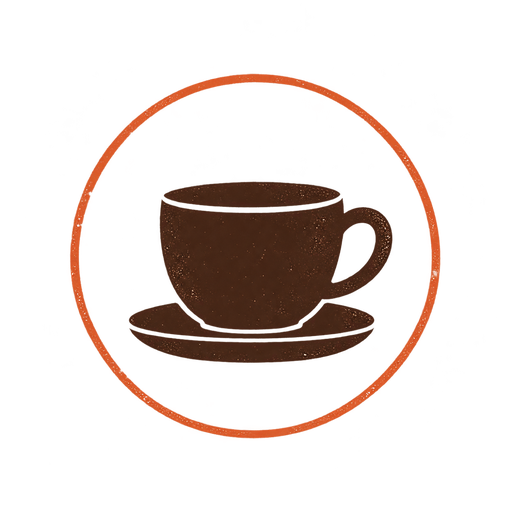
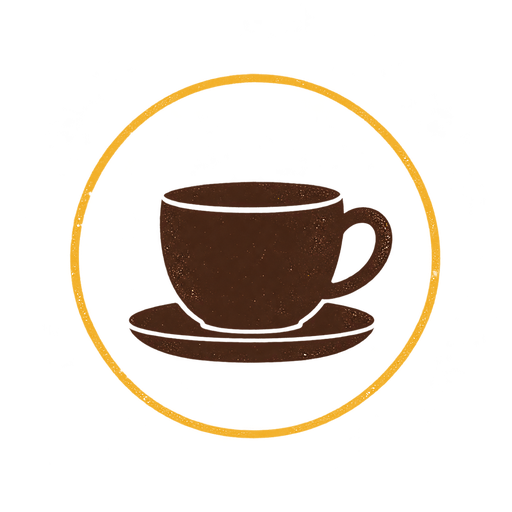
fix(brand): finish the YELO rebrand and fix its contrast
Muted text #817668 measured 3.6-4.4:1 on the app's cream and white
backgrounds, below the 4.5:1 text minimum; #6B5E55 measures 5.1-6.3:1.
The token and the 54 hard-coded uses move together.

Remove the four places that special-cased a shop named "YELO COFFEE":
BrandLogo already falls back to the mascot, and receipts go back to
printing only a logo the shop uploaded. Recolour the remaining old
orange accents (filled stamp ring, category-rail marker, add-on ticks,
scan line) to amber and align the fifth chart colour with --chart-5.

The vertical category rail was 116px wide with a 1px border and 96px
buttons, so it overflowed by 1px and showed a horizontal scrollbar.
Brand PNGs are downscaled to the largest size they are displayed at.

Changed region(s): [[0.125, 0.125, 0.875, 0.75], [0.25, 0.6562, 0.8125, 0.875]]

diff --git a/frontend/src/app/pos/orders/orders-screen.tsx b/frontend/src/app/pos/orders/orders-screen.tsx
@@ -250,7 +250,7 @@ export function OrdersScreen({ orders, initialDetail, netSalesSatang, todaySumma
             <span className="w-[72px] shrink-0 text-[22px] font-bold">{orderLabel(order.dailyNo)}</span>
             <span className="min-w-0 flex-1 leading-snug">
               <span className="text-base font-semibold">{orderTimestamp(order.paidAt)} · {order.itemCount} รายการ</span><br />
-              <span className="text-sm text-[#817668]">{methodLabel(order.paymentMethod)} · {order.memberName ?? "ไม่ใช่สมาชิก"}</span>
+              <span className="text-sm text-[#6B5E55]">{methodLabel(order.paymentMethod)} · {order.memberName ?? "ไม่ใช่สมาชิก"}</span>
             </span>
             <span className="text-right leading-snug">
               <span className="relative inline-block whitespace-nowrap text-lg font-bold tabular-nums">{formatBaht(order.totalSatang)}{order.status === "void" ? <svg data-list-total aria-hidden="true" className="pointer-events-none absolute inset-x-0 top-1/2 h-2 w-full -translate-y-1/2" viewBox="0 0 100 8" preserveAspectRatio="none"><path d="M2 4H98" fill="none" stroke="#F4B942" strokeWidth="2.5" strokeLinecap="round" /></svg> : null}</span><br />
@@ -260,7 +260,7 @@ export function OrdersScreen({ orders, initialDetail, netSalesSatang, todaySumma
         }) : <div className="flex flex-1 flex-col items-center justify-center gap-3 p-8 text-center">
           <Image src="/assets/empty-orders.png" alt="" width={128} height={128} className="size-32 object-contain" />
           <p className="m-0 text-xl font-semibold">วันนี้ยังไม่มีออเดอร์</p>
-          <p className="m-0 text-[#817668]">รายการขายจะแสดงที่นี่</p>
+          <p className="m-0 text-[#6B5E55]">รายการขายจะแสดงที่นี่</p>
         </div>}
       </section>
 
@@ -269,23 +269,23 @@ export function OrdersScreen({ orders, initialDetail, netSalesSatang, todaySumma
         {detail && detail.id === selectedId && !loadingDetail ? <>
           <div className="flex flex-wrap items-baseline gap-x-3.5 gap-y-2">
             <span className="text-[40px] font-bold">{orderLabel(detail.dailyNo)}</span>
-            <span className="text-base text-[#817668]">{orderTimestamp(detail.paidAt ?? detail.voidedAt)} · โดย {detail.staffName ?? "—"}</span>
+            <span className="text-base text-[#6B5E55]">{orderTimestamp(detail.paidAt ?? detail.voidedAt)} · โดย {detail.staffName ?? "—"}</span>
             <span data-void-status className={`ml-auto rounded-full px-3 py-1 text-sm font-semibold ${statusClass(detail.status)}`}>{detail.status === "void" ? "ยกเลิกแล้ว" : "ชำระแล้ว"}</span>
           </div>
-          {loadingDetail ? <p className="text-[#817668]">กำลังโหลดรายละเอียด…</p> : <>
+          {loadingDetail ? <p className="text-[#6B5E55]">กำลังโหลดรายละเอียด…</p> : <>
             <div className="flex flex-col border-t border-[#E2D8C7]">
               {detail.items.map((item) => <div key={item.id} className="flex gap-3 border-b border-[#EFE3D5] py-3 text-[17px]">
                 <span className="w-10 shrink-0 font-bold">{item.qty}×</span>
                 <span className="min-w-0 flex-1">{item.name}
-                  {item.modifiers.length || item.note ? <span className="block text-sm text-[#817668]">{[...item.modifiers.map((modifier) => modifier.name), item.note].filter(Boolean).join(" · ")}</span> : null}
+                  {item.modifiers.length || item.note ? <span className="block text-sm text-[#6B5E55]">{[...item.modifiers.map((modifier) => modifier.name), item.note].filter(Boolean).join(" · ")}</span> : null}
                 </span>
                 <span className="shrink-0 font-semibold tabular-nums">{formatBaht(item.unitPriceSatang * item.qty)}</span>
               </div>)}
             </div>
-            <div className="flex justify-between text-base text-[#817668]"><span>ชำระด้วย</span><span>{methodLabel(detail.paymentMethod)}</span></div>
-            <div className="flex justify-between text-base text-[#817668]"><span>สมาชิก</span><span>{detail.memberName ?? "ไม่ใช่สมาชิก"}</span></div>
-            {detail.discountSatang > 0 ? <div className="flex justify-between text-base text-[#817668]"><span>ส่วนลด</span><span>-{formatBaht(detail.discountSatang)}</span></div> : null}
-            {detail.paymentMethod === "cash" && detail.cashReceivedSatang !== null ? <div className="flex justify-between text-sm text-[#817668]"><span>รับเงินสด · เงินทอน</span><span className="tabular-nums">{formatBaht(detail.cashReceivedSatang)} · {formatBaht(detail.cashReceivedSatang - detail.totalSatang)}</span></div> : null}
+            <div className="flex justify-between text-base text-[#6B5E55]"><span>ชำระด้วย</span><span>{methodLabel(detail.paymentMethod)}</span></div>
+            <div className="flex justify-between text-base text-[#6B5E55]"><span>สมาชิก</span><span>{detail.memberName ?? "ไม่ใช่สมาชิก"}</span></div>
+            {detail.discountSatang > 0 ? <div className="flex justify-between text-base text-[#6B5E55]"><span>ส่วนลด</span><span>-{formatBaht(detail.discountSatang)}</span></div> : null}
+            {detail.paymentMethod === "cash" && detail.cashReceivedSatang !== null ? <div className="flex justify-between text-sm text-[#6B5E55]"><span>รับเงินสด · เงินทอน</span><span className="tabular-nums">{formatBaht(detail.cashReceivedSatang)} · {formatBaht(detail.cashReceivedSatang - detail.totalSatang)}</span></div> : null}
             <div className="flex items-baseline justify-between"><span className="text-lg font-semibold">ยอดรวม</span><span className="relative inline-block text-[34px] font-bold tabular-nums">{formatBaht(detail.totalSatang)}{detail.status === "void" ? <svg data-void-total aria-hidden="true" className="pointer-events-none absolute inset-x-0 top-1/2 h-2 w-full -translate-y-1/2" viewBox="0 0 100 8" preserveAspectRatio="none"><path d="M2 4H98" fill="none" stroke="#F4B942" strokeWidth="2.5" strokeLinecap="round" /></svg> : null}</span></div>
           </>}
           <div className="mt-auto flex gap-3 pt-2 max-[520px]:flex-col">
@@ -295,7 +295,7 @@ export function OrdersScreen({ orders, initialDetail, netSalesSatang, todaySumma
             {detail.status === "paid" ? <Link href={`/pos/refunds/${detail.id}`} className="flex min-h-12 items-center justify-center rounded-xl border px-4 font-semibold">คืนเงิน / ยกเลิกรายการที่ชำระแล้ว</Link> : null}
             {detail.status === "open" ? <button type="button" onClick={openVoid} className="h-[68px] flex-1 rounded-2xl border-2 border-[#8E3415] bg-[#FFFFFF] text-lg font-bold text-[#8E3415]">ยกเลิกบิลนี้</button> : null}
           </div>
-        </> : orders.length ? <p className="m-auto text-center text-[#817668]">{loadingDetail ? "กำลังโหลดรายละเอียด…" : "เลือกออเดอร์เพื่อดูรายละเอียด"}</p> : <div className="m-auto text-center text-[#817668]">ยังไม่มีรายละเอียดออเดอร์</div>}
+        </> : orders.length ? <p className="m-auto text-center text-[#6B5E55]">{loadingDetail ? "กำลังโหลดรายละเอียด…" : "เลือกออเดอร์เพื่อดูรายละเอียด"}</p> : <div className="m-auto text-center text-[#6B5E55]">ยังไม่มีรายละเอียดออเดอร์</div>}
       </section>
     </div> : <TodaySummary summary={todaySummary} hourlySales={hourlySales} topItems={topItems} currentHour={currentHour} />}
 
@@ -303,7 +303,7 @@ export function OrdersScreen({ orders, initialDetail, netSalesSatang, todaySumma
       <div ref={dialogRef} role="dialog" aria-modal="true" aria-labelledby={voidTitleId} tabIndex={-1} onKeyDown={trapDialogTab}
         className="flex w-full max-w-[520px] flex-col items-center gap-4 rounded-3xl bg-[#FFFFFF] p-7 outline-none">
         <h2 id={voidTitleId} className="m-0 text-center text-2xl font-bold">ยกเลิกบิล {orderLabel(detail.dailyNo)} ({formatBaht(detail.totalSatang)})</h2>
-        <p className="m-0 text-center text-base text-[#817668]">ต้องใช้ PIN ผู้จัดการหรือเจ้าของร้าน · ยกเลิกได้เฉพาะบิลที่ยังไม่ชำระเงิน</p>
+        <p className="m-0 text-center text-base text-[#6B5E55]">ต้องใช้ PIN ผู้จัดการหรือเจ้าของร้าน · ยกเลิกได้เฉพาะบิลที่ยังไม่ชำระเงิน</p>
         <div ref={pinDotsRef} role="img" aria-label={`PIN ที่ใส่แล้ว ${pin.length} หลัก`} className="flex gap-3 py-1">
           {Array.from({ length: 6 }, (_, index) => index + 1).map((pinPosition) => <span key={pinPosition} data-pin-index={pinPosition - 1} className={`size-[22px] rounded-full border-2 border-[#4A2C1A] ${pinPosition <= pin.length ? "bg-[#4A2C1A]" : "bg-transparent"}`} />)}
         </div>

diff --git a/frontend/src/app/pos/login/login-form.tsx b/frontend/src/app/pos/login/login-form.tsx
@@ -3,7 +3,6 @@
 import { useRef, useState } from "react";
 import { useActionState } from "react";
 import { useFormStatus } from "react-dom";
-import Image from "next/image";
 import { useRouter } from "next/navigation";
 import { Button } from "@/components/ui/button";
 import { BrandLogo } from "@/components/brand/brand";
@@ -101,12 +100,10 @@ export function LoginForm({ staff, shopName, deviceName, logoUrl }: { staff: Sta
   return <main ref={mainRef} className="flex min-h-dvh w-full overflow-hidden bg-[#F7F1E7] text-[#4A2C1A] max-[800px]:flex-col">
     <section className="flex min-w-0 flex-1 flex-col gap-7 overflow-y-auto px-10 py-10 lg:px-14">
       <div className="flex items-center gap-4">
-        {shopName === "YELO COFFEE" && !logoUrl?.startsWith("/api/brand/")
-          ? <Image src="/assets/yelo-coffee-logo.png" alt="YELO COFFEE" width={288} height={192} className="h-16 w-36 object-contain" />
-          : <BrandLogo logoUrl={logoUrl} size={64} className="rounded-2xl" />}
+        <BrandLogo logoUrl={logoUrl} size={64} className="rounded-2xl" />
         <div className="leading-tight">
-          {shopName !== "YELO COFFEE" && <div className="text-[28px] font-bold">{shopName}</div>}
-          <div className="mt-1 text-base text-[#817668]">{deviceName} · จับคู่แล้ว</div>
+          <div className="text-[28px] font-bold">{shopName}</div>
+          <div className="mt-1 text-base text-[#6B5E55]">{deviceName} · จับคู่แล้ว</div>
         </div>
       </div>
       <h1 className="m-0 text-[32px] font-bold">ใครเข้ากะตอนนี้?</h1>
@@ -121,11 +118,11 @@ export function LoginForm({ staff, shopName, deviceName, logoUrl }: { staff: Sta
             </svg> : null}
             <span className={`flex size-16 items-center justify-center rounded-full text-[26px] font-bold ${isSelected ? "bg-[#4A2C1A] text-[#F7F1E7]" : "bg-[#F7F1E7] text-[#4A2C1A]"}`}>{thaiInitial(person.name)}</span>
             <span className="max-w-full truncate text-xl font-bold leading-tight">{person.name}</span>
-            <span className="text-sm text-[#817668]">{roleNames[person.role] ?? person.role}</span>
+            <span className="text-sm text-[#6B5E55]">{roleNames[person.role] ?? person.role}</span>
           </button>;
         })}
       </div>
-      {staff.length === 0 ? <div className="rounded-2xl border border-[#E2D8C7] bg-[#FFFFFF] p-6 text-center text-[#817668]">
+      {staff.length === 0 ? <div className="rounded-2xl border border-[#E2D8C7] bg-[#FFFFFF] p-6 text-center text-[#6B5E55]">
         <p className="m-0 font-semibold text-[#4A2C1A]">ยังไม่มีพนักงานที่ตั้ง PIN และเปิดใช้งาน</p>
         <p className="mb-0 mt-2">ให้เจ้าของร้านตั้ง PIN ที่หลังร้าน › พนักงาน</p>
       </div> : null}
@@ -133,7 +130,7 @@ export function LoginForm({ staff, shopName, deviceName, logoUrl }: { staff: Sta
 
     <aside className="flex w-[min(460px,42vw)] shrink-0 flex-col items-center gap-[22px] border-l border-[#E2D8C7] bg-[#FFFFFF] px-10 py-10 max-[800px]:w-full max-[800px]:border-l-0 max-[800px]:border-t">
       {selected ? <div ref={panelRef} className="flex w-full flex-col items-center gap-[22px]">
-        <div className="text-lg text-[#817668]">ใส่ PIN ของ</div>
+        <div className="text-lg text-[#6B5E55]">ใส่ PIN ของ</div>
         <div className="-mt-3 text-[28px] font-bold">{selected.name}</div>
         <div ref={pinDotsRef} role="img" aria-label={`PIN ที่ใส่แล้ว ${pin.length} หลัก`} className="flex h-7 items-center gap-3">
           {Array.from({ length: 6 }, (_, index) => index + 1).map((pinPosition) => <span key={pinPosition} data-pin-index={pinPosition - 1} className={`pin-dot size-[22px] rounded-full border-2 ${state.success ? "border-[#2F6B3F] bg-[#2F6B3F]" : `border-[#4A2C1A] ${pinPosition <= pin.length ? "bg-[#4A2C1A]" : "bg-transparent"}`}`} />)}
@@ -145,10 +142,10 @@ export function LoginForm({ staff, shopName, deviceName, logoUrl }: { staff: Sta
           <Keypad value={pin} onChange={updatePin} maxLength={6} keyClassName="h-[72px] rounded-[18px] text-[30px]" className="gap-3" />
           <LoginButton disabled={pin.length < 4 || Boolean(state.success)} />
         </form>
-      </div> : staff.length === 0 ? <div className="flex flex-1 flex-col items-center justify-center gap-3 text-center text-[#817668]">
+      </div> : staff.length === 0 ? <div className="flex flex-1 flex-col items-center justify-center gap-3 text-center text-[#6B5E55]">
         <span className="text-xl font-semibold text-[#4A2C1A]">ยังไม่มีพนักงานที่ตั้ง PIN และเปิดใช้งาน</span>
         <span className="text-base">ให้เจ้าของร้านตั้ง PIN ที่หลังร้าน › พนักงาน</span>
-      </div> : <div className="flex flex-1 flex-col items-center justify-center gap-3 text-center text-[#817668]">
+      </div> : <div className="flex flex-1 flex-col items-center justify-center gap-3 text-center text-[#6B5E55]">
         <svg aria-hidden="true" width="56" height="56" viewBox="0 0 24 24" fill="none" stroke="#B88A5A" strokeWidth="1.6" strokeLinecap="round" strokeLinejoin="round"><rect x="4" y="10" width="16" height="11" rx="2" /><path d="M8 10V7a4 4 0 0 1 8 0v3" /></svg>
         <span className="text-xl font-semibold text-[#4A2C1A]">เลือกชื่อของคุณ</span>
         <span className="text-base">แล้วใส่ PIN 4–6 หลักเพื่อเริ่มขาย</span>

diff --git a/frontend/src/app/pos/_components/cart-panel.tsx b/frontend/src/app/pos/_components/cart-panel.tsx
@@ -76,7 +76,7 @@ export function CartPanel({ lines, pricedLines, subtotalSatang, discountSatang, 
   return <aside ref={panelRef} data-cart-panel aria-label="ออเดอร์ปัจจุบัน" className="flex w-full min-w-0 overflow-y-auto lg:w-[min(404px,34vw)] lg:min-w-[320px] shrink-0 flex-col border-l border-[#E2D8C7] bg-[#FFFFFF] shadow-[-8px_0_24px_rgba(59,42,32,0.035)]">
     <MemberPanel member={member} loading={memberLoading} lookupError={memberLookupError} redeemRewardId={redeemRewardId} onScan={onScan} onPhone={onPhone} onRemove={onRemoveMember} onToggleReward={onToggleReward} />
     <div className="min-h-32 flex-1 overflow-y-auto px-4 py-1.5">
-      {lines.length === 0 ? <div className="flex h-full flex-col items-center justify-center gap-2 text-center text-[#817668]">
+      {lines.length === 0 ? <div className="flex h-full flex-col items-center justify-center gap-2 text-center text-[#6B5E55]">
         <Coffee aria-hidden="true" size={44} className="text-[#B88A5A]" /><span className="text-[17px] font-semibold">ยังไม่มีรายการ</span><span className="text-sm">แตะเมนูทางซ้ายเพื่อเริ่มออเดอร์</span>
       </div> : lines.map((line, index) => {
         const priced = pricedLines[index];
@@ -85,7 +85,7 @@ export function CartPanel({ lines, pricedLines, subtotalSatang, discountSatang, 
         return <div key={lineKey} data-cart-line data-line-key={lineKey} className="flex gap-2.5 border-b border-[#EFE3D5] py-3">
           <button type="button" onClick={() => onEdit(index)} aria-label={`แก้ไข ${productNames.get(line.productId) ?? priced?.name}${modifiersText ? ` ${modifiersText}` : ""}`}
             className="min-h-11 min-w-0 flex-1 rounded-lg text-left focus-visible:outline-2 focus-visible:outline-[#F4B942]">
-            <div className="text-[17px] font-semibold">{productNames.get(line.productId) ?? priced?.name}</div>{soldOutIds.has(line.productId) ? <div className="text-sm font-semibold text-[#8E3415]">หมดแล้ว — กดปุ่มลดจำนวนเพื่อนำออก</div> : <div className="text-sm text-[#817668]">{modifiersText || "แตะเพื่อแก้ไขรายการ"}</div>}
+            <div className="text-[17px] font-semibold">{productNames.get(line.productId) ?? priced?.name}</div>{soldOutIds.has(line.productId) ? <div className="text-sm font-semibold text-[#8E3415]">หมดแล้ว — กดปุ่มลดจำนวนเพื่อนำออก</div> : <div className="text-sm text-[#6B5E55]">{modifiersText || "แตะเพื่อแก้ไขรายการ"}</div>}
             <div className="mt-1 text-[15px] font-bold tabular-nums">{formatBaht(priced?.lineTotalSatang ?? 0)}</div></button>
           <div className="flex items-center gap-1">
             <button type="button" aria-label={`ลดจำนวน ${productNames.get(line.productId)}`} onClick={() => { if (line.qty === 1) { removeLineWithMotionRef.current(index); } onQuantity(index, -1); }} className="flex size-11 items-center justify-center rounded-xl border border-[#E2D8C7] bg-[#FFFFFF] active:scale-[0.97] motion-reduce:transition-none"><Minus aria-hidden="true" size={20} /></button>
@@ -96,7 +96,7 @@ export function CartPanel({ lines, pricedLines, subtotalSatang, discountSatang, 
       })}
     </div>
     <footer className="flex shrink-0 flex-col gap-1.5 border-t border-[#E2D8C7] p-[14px_16px_16px]">
-      <div className="flex justify-between text-[15px] text-[#817668]"><span>รวม {itemCount} รายการ</span><span className="tabular-nums">{formatBaht(subtotalSatang)}</span></div>
+      <div className="flex justify-between text-[15px] text-[#6B5E55]"><span>รวม {itemCount} รายการ</span><span className="tabular-nums">{formatBaht(subtotalSatang)}</span></div>
       {discountSatang > 0 && <div className="flex justify-between text-[15px] font-semibold text-[#2F6B3F]"><span>ส่วนลดรางวัลสมาชิก</span><span className="tabular-nums">−{formatBaht(discountSatang)}</span></div>}
       <div className="mt-0.5 flex items-baseline justify-between"><span className="text-lg font-semibold">ยอดชำระ</span><span className="text-[32px] font-bold tabular-nums">{formatBaht(totalSatang)}</span></div>
       <button ref={payRef} type="button" disabled={!lines.length || !online || hasSoldOut} onClick={onPay} className="relative mt-1.5 h-[72px] overflow-hidden rounded-2xl bg-[#F4B942] text-[22px] font-bold text-[#2F2A25] shadow-[0_5px_12px_rgba(244,185,66,0.22)] transition-transform active:scale-[0.99] motion-reduce:transform-none motion-reduce:transition-none disabled:bg-[#D1C1A8]">

diff --git a/frontend/src/app/pos/_components/payment-dialog.tsx b/frontend/src/app/pos/_components/payment-dialog.tsx
@@ -256,12 +256,12 @@ export function PaymentDialog({ orderLabel, lines: cartLines, subtotalSatang: ca
       <div ref={dialogRef} tabIndex={-1} role="dialog" aria-modal="true" aria-busy={pending} aria-labelledby={`${id}-payment-title`} onKeyDown={trapDialogTab}
         className="flex max-h-[calc(100dvh-24px)] flex-col overflow-y-auto md:h-[min(680px,calc(100dvh-24px))] md:flex-row w-full max-w-[1000px] md:overflow-hidden rounded-[24px] border border-white/60 bg-[#FFFFFF] shadow-[0_24px_80px_rgba(43,30,22,0.25)] outline-none">
         <aside className="flex w-full shrink-0 md:w-[36%] md:min-w-[260px] flex-col gap-3 bg-gradient-to-b from-[#F7F0E7] to-[#F0E4D7] p-4 md:p-7">
-        <h2 id={`${id}-payment-title`} className="text-base text-[#817668]">ออเดอร์ {orderLabel}</h2>
+        <h2 id={`${id}-payment-title`} className="text-base text-[#6B5E55]">ออเดอร์ {orderLabel}</h2>
           <div className="max-h-32 space-y-3 overflow-y-auto md:max-h-none md:min-h-0">
             {lines.map((line) => (
               <div key={line.key} className="flex justify-between gap-2 text-base">
                 <div className="min-w-0"><div>{line.qty} × {line.name}</div>
-                  {line.modifiersText && <div className="text-sm text-[#817668]">{line.modifiersText}</div>}
+                  {line.modifiersText && <div className="text-sm text-[#6B5E55]">{line.modifiersText}</div>}
                 </div>
                 <span className="shrink-0 tabular-nums">{formatBaht(line.lineTotalSatang)}</span>
               </div>
@@ -271,7 +271,7 @@ export function PaymentDialog({ orderLabel, lines: cartLines, subtotalSatang: ca
             <span>รางวัลสมาชิก</span><span className="tabular-nums">−{formatBaht(discountSatang)}</span>
           </div>}
           <div className="mt-auto border-t border-[#E0CFBD] pt-3">
-            <div className="flex justify-between text-sm text-[#817668]"><span>รวม</span><span className="tabular-nums">{formatBaht(subtotalSatang)}</span></div>
+            <div className="flex justify-between text-sm text-[#6B5E55]"><span>รวม</span><span className="tabular-nums">{formatBaht(subtotalSatang)}</span></div>
             <div className="mt-1 text-lg font-semibold">ยอดชำระ</div>
             <div className="text-[clamp(40px,5vw,56px)] font-bold leading-[1.1] tabular-nums">{formatBaht(totalSatang)}</div>
           </div>
@@ -292,13 +292,13 @@ export function PaymentDialog({ orderLabel, lines: cartLines, subtotalSatang: ca
               onClick={() => void selectPromptPay()}
               className={`relative z-10 h-[60px] rounded-[14px] text-lg font-bold transition-colors disabled:cursor-not-allowed disabled:text-[#8A796B] ${isCash ? "text-[#4A2C1A]" : "text-[#F7F1E7]"}`}>พร้อมเพย์</button>
           </div>
-          {!promptpayEnabled && <p className="-mt-3 text-sm text-[#817668]">ยังไม่ได้ตั้งค่าพร้อมเพย์ในหลังร้าน</p>}
+          {!promptpayEnabled && <p className="-mt-3 text-sm text-[#6B5E55]">ยังไม่ได้ตั้งค่าพร้อมเพย์ในหลังร้าน</p>}
 
           <div ref={contentRef} className="flex shrink-0 flex-col">
             {isCash ? <div className="flex min-h-0 flex-1 flex-col gap-4 sm:flex-row">
               <div className="flex min-w-0 flex-1 flex-col gap-3">
                 <div className="rounded-2xl border border-[#E2D8C7] bg-white/60 px-4 py-2.5 shadow-[0_2px_8px_rgba(74,44,26,0.04)]">
-                  <div className="text-sm text-[#817668]">รับเงินมา</div>
+                  <div className="text-sm text-[#6B5E55]">รับเงินมา</div>
                   <input aria-label="จำนวนเงินที่รับ (บาท)" inputMode="decimal" value={cashInput} placeholder="0" className="w-full min-w-0 bg-transparent text-[40px] font-bold leading-tight tabular-nums" onChange={(event) => { const value = event.target.value; if (/^\d{0,6}(\.\d{0,2})?$/.test(value)) setCashInput(value); }} />
                 </div>
                 <div className={`rounded-2xl border px-4 py-2.5 transition-colors duration-200 ${changeShort ? "border-[#E9B29B] bg-[#F7DCD0] text-[#8E3415]" : "border-[#BDD3C0] bg-[#E7F1E8] text-[#245232]"}`}>

diff --git a/frontend/src/app/pos/_components/phone-dialog.tsx b/frontend/src/app/pos/_components/phone-dialog.tsx
@@ -56,17 +56,17 @@ export function PhoneDialog({ onClose, onAttach }: PhoneDialogProps) {
       className="relative flex flex-col sm:flex-row max-h-[calc(100dvh-32px)] w-[min(760px,calc(100vw-32px))] gap-6 overflow-y-auto rounded-3xl border border-[#E2D8C7] bg-[#FFFFFF] p-6 shadow-[0_24px_70px_rgba(43,30,22,0.22)] outline-none">
       <div className="flex min-w-0 flex-1 flex-col gap-3.5">
         <div className="flex min-h-11 items-center justify-between gap-2"><h2 id={`${id}-phone-title`} className="text-[22px] font-bold">ค้นหาด้วยเบอร์โทร</h2>
-          <button type="button" aria-label="ปิดหน้าต่าง" onClick={onClose} className="flex size-11 shrink-0 items-center justify-center rounded-xl text-[#817668] transition-colors hover:bg-[#EFE3D5]"><X aria-hidden="true" /></button>
+          <button type="button" aria-label="ปิดหน้าต่าง" onClick={onClose} className="flex size-11 shrink-0 items-center justify-center rounded-xl text-[#6B5E55] transition-colors hover:bg-[#EFE3D5]"><X aria-hidden="true" /></button>
         </div>
         <div aria-live="polite" className="flex h-[68px] items-center rounded-2xl border-2 border-[#4A2C1A] px-[18px] text-[30px] font-bold tracking-wide">{display}</div>
         <div ref={resultsRef} className="flex min-h-0 flex-1 flex-col gap-2 overflow-y-auto">
-          {phone.length < 4 && <p className="text-[15px] text-[#817668]">พิมพ์อย่างน้อย 4 หลักเพื่อค้นหา</p>}
-          {loading && <p className="flex items-center gap-2 text-[#817668]"><Search aria-hidden="true" size={18} />กำลังค้นหา…</p>}
-          {hasCurrentResult && !searchResult.error && members.length === 0 && <p className="text-[15px] text-[#817668]">ไม่พบสมาชิก</p>}
+          {phone.length < 4 && <p className="text-[15px] text-[#6B5E55]">พิมพ์อย่างน้อย 4 หลักเพื่อค้นหา</p>}
+          {loading && <p className="flex items-center gap-2 text-[#6B5E55]"><Search aria-hidden="true" size={18} />กำลังค้นหา…</p>}
+          {hasCurrentResult && !searchResult.error && members.length === 0 && <p className="text-[15px] text-[#6B5E55]">ไม่พบสมาชิก</p>}
           {hasCurrentResult && searchResult.error && <div role="alert">ค้นหาไม่สำเร็จ กรุณาลองใหม่ <button type="button" className="min-h-11 underline" onClick={() => setRetry((value) => value + 1)}>ลองใหม่</button></div>}
           {members.map((member) => <button data-member-result key={member.id} type="button" onClick={() => { onAttach(member); onClose(); }} className="flex min-h-[72px] items-center gap-3 rounded-2xl border border-[#B88A5A] bg-[#F7F1E7] p-3 text-left shadow-[0_3px_10px_rgba(59,42,32,0.05)] transition-colors hover:bg-[#EFE3D5]">
             <span className="flex size-11 shrink-0 items-center justify-center rounded-full bg-[#06C755] font-bold text-white">{thaiInitial(member.displayName)}</span>
-            <span className="min-w-0 flex-1 leading-tight"><b className="text-[17px]">{member.displayName}</b><br /><span className="text-sm text-[#817668]">{maskPhone(member.phone) || "ไม่ระบุเบอร์"} · สะสม {member.stampBalance}/{member.stampGoal} · มีรางวัล {member.availableRewards.length}</span></span>
+            <span className="min-w-0 flex-1 leading-tight"><b className="text-[17px]">{member.displayName}</b><br /><span className="text-sm text-[#6B5E55]">{maskPhone(member.phone) || "ไม่ระบุเบอร์"} · สะสม {member.stampBalance}/{member.stampGoal} · มีรางวัล {member.availableRewards.length}</span></span>
             <span className="shrink-0 text-[15px] font-bold text-[#6B4226]">เลือก</span>
           </button>)}
         </div>

diff --git a/frontend/src/app/pos/_components/modifier-sheet.tsx b/frontend/src/app/pos/_components/modifier-sheet.tsx
@@ -78,7 +78,7 @@ export function ModifierSheet({ product, initialModifierIds = [], initialQty = 1
           <ProductTile name={product.name} tileColor={product.tileColor} className="hidden md:block size-[232px] rounded-2xl text-[80px]" />}
         <h2 id={`${id}-modifier-title`} className="text-[26px] font-bold">{product.name}</h2>
         {isEditing && <p className="-mt-2 text-sm font-medium text-[#8A6A4F]">แก้ไขรายการในออเดอร์</p>}
-        <p className="text-[17px] text-[#817668]">ราคาเริ่มต้น {formatBaht(product.basePriceSatang)}</p>
+        <p className="text-[17px] text-[#6B5E55]">ราคาเริ่มต้น {formatBaht(product.basePriceSatang)}</p>
         <div className="mt-auto flex flex-col gap-2">
           <span className="text-[15px] font-semibold">จำนวน</span>
           <div className="flex items-center gap-2">
@@ -96,7 +96,7 @@ export function ModifierSheet({ product, initialModifierIds = [], initialQty = 1
             const rule = group.minSelect > 0 ? `ต้องเลือก ${group.minSelect}` : group.maxSelect === 1 ? "ไม่บังคับ" : `เลือกได้สูงสุด ${group.maxSelect}`;
             return <section key={group.id} className="flex flex-col gap-2.5">
               <div className="flex items-center gap-2.5"><h3 className="text-[19px] font-bold">{group.name}</h3>
-                <span data-required-badge data-missing={missing} className={`rounded-full px-2.5 py-1 text-[13px] font-semibold ${missing ? "bg-[#F7DCD0] text-[#8E3415]" : "bg-[#EFE3D5] text-[#817668]"}`}>{rule}</span>
+                <span data-required-badge data-missing={missing} className={`rounded-full px-2.5 py-1 text-[13px] font-semibold ${missing ? "bg-[#F7DCD0] text-[#8E3415]" : "bg-[#EFE3D5] text-[#6B5E55]"}`}>{rule}</span>
               </div>
               {group.modifiers.length < group.minSelect && <p role="alert" className="text-sm text-[#6B4226]">ตัวเลือกไม่ครบ สินค้านี้ยังไม่พร้อมขาย กรุณาให้ผู้จัดการตั้งค่าตัวเลือกในหลังร้าน</p>}
               <div className="grid grid-cols-2 gap-2.5 min-[700px]:grid-cols-4">
@@ -104,7 +104,7 @@ export function ModifierSheet({ product, initialModifierIds = [], initialQty = 1
                   const isSelected = chosen.has(modifier.id);
                   return <button key={modifier.id} type="button" aria-pressed={isSelected} onClick={() => toggle(group.id, modifier.id, group.maxSelect)}
                     className={`relative flex h-16 flex-col items-center justify-center rounded-[14px] border text-[17px] font-semibold leading-tight transition-[background-color,border-color,color] duration-150 active:scale-[0.98] motion-reduce:transform-none motion-reduce:transition-none ${isSelected ? "border-[#4A2C1A] bg-[#4A2C1A] text-[#F7F1E7]" : "border-[#E2D8C7] bg-[#FFFFFF] text-[#4A2C1A]"}`}>
-                    {isSelected && <svg aria-hidden="true" className="absolute right-2 top-2 size-4" viewBox="0 0 16 16" fill="none"><path data-modifier-check d="m2 8 4 4 8-9" stroke="#D9653B" strokeWidth="2.5" strokeLinecap="round" strokeLinejoin="round" /></svg>}
+                    {isSelected && <svg aria-hidden="true" className="absolute right-2 top-2 size-4" viewBox="0 0 16 16" fill="none"><path data-modifier-check d="m2 8 4 4 8-9" stroke="#F4B942" strokeWidth="2.5" strokeLinecap="round" strokeLinejoin="round" /></svg>}
                     {modifier.name}<span className="text-[13px] font-medium">{modifier.priceDeltaSatang ? `+${formatBaht(modifier.priceDeltaSatang)}` : "ไม่เพิ่มราคา"}</span>
                   </button>;
                 })}

diff --git a/frontend/src/app/pos/_components/scan-dialog.tsx b/frontend/src/app/pos/_components/scan-dialog.tsx
@@ -91,7 +91,7 @@ export function ScanDialog({ onClose, onAttach, onLookupStart, onLookupEnd }: Sc
     <button ref={backdropRef} type="button" tabIndex={-1} aria-label="ปิดหน้าต่าง" onClick={onClose} className="absolute inset-0 bg-[rgba(43,30,22,0.55)]" />
     <div ref={dialogRef} tabIndex={-1} role="dialog" aria-modal="true" aria-labelledby={`${id}-scan-title`} onKeyDown={(event) => { trapDialogTab(event); if (event.key === "Escape") onClose(); }}
       className="relative flex w-[min(560px,calc(100vw-32px))] flex-col items-center gap-4 rounded-3xl bg-[#FFFFFF] p-6 outline-none">
-      <button type="button" aria-label="ปิดหน้าต่าง" onClick={onClose} className="absolute right-3 top-3 flex size-11 items-center justify-center rounded-xl text-[#817668]"><X aria-hidden="true" /></button>
+      <button type="button" aria-label="ปิดหน้าต่าง" onClick={onClose} className="absolute right-3 top-3 flex size-11 items-center justify-center rounded-xl text-[#6B5E55]"><X aria-hidden="true" /></button>
       <h2 id={`${id}-scan-title`} className="text-[22px] font-bold">สแกนบัตรสมาชิก</h2>
       <div className="relative flex h-[280px] w-full items-center justify-center overflow-hidden rounded-2xl bg-[#4A2C1A]">
         <video ref={videoRef} muted playsInline className="h-full w-full object-cover" />
@@ -100,11 +100,11 @@ export function ScanDialog({ onClose, onAttach, onLookupStart, onLookupEnd }: Sc
             <title>กรอบสำหรับจัด QR</title>
             <path data-scan-corner d="M2 22V2H22 M78 2H98V22 M98 78V98H78 M22 98H2V78" stroke="#F7F1E7" strokeWidth="2.5" strokeLinecap="round" strokeLinejoin="round" />
           </svg>
-          {scanning && <span data-scan-line className="absolute left-2 right-2 top-1/2 h-[2px] rounded-full bg-[#D9653B] shadow-[0_0_12px_rgba(217,101,59,0.85)]" />}
+          {scanning && <span data-scan-line className="absolute left-2 right-2 top-1/2 h-[2px] rounded-full bg-[#F4B942] shadow-[0_0_12px_rgba(244,185,66,0.85)]" />}
         </div>
         {!scanning && <div className="absolute inset-0 flex flex-col items-center justify-center gap-2 text-[#F7F1E7]"><Camera aria-hidden="true" size={38} /><span>พร้อมสแกนเมื่อเปิดกล้องได้</span></div>}
       </div>
-      <p className="text-sm text-[#817668]">วาง QR ให้อยู่ในกรอบ หรือใช้เครื่องสแกน USB</p>
+      <p className="text-sm text-[#6B5E55]">วาง QR ให้อยู่ในกรอบ หรือใช้เครื่องสแกน USB</p>
       <input ref={inputRef} aria-label="รหัส QR สมาชิกจากเครื่องสแกน" autoComplete="off" onKeyDown={(event) => {
         if (event.key === "Enter") { event.preventDefault(); const target = event.currentTarget; void submitToken(target.value); target.value = ""; }
       }} className="fixed left-0 top-0 size-px opacity-0" />

diff --git a/frontend/src/app/pos/_components/product-grid.tsx b/frontend/src/app/pos/_components/product-grid.tsx
@@ -88,7 +88,7 @@ export function ProductGrid({ menu, categoryId, addedProductId, onChoose }: Prod
         <input type="search" aria-label="ค้นหาเมนู" placeholder="ค้นหาเมนู" value={query} onChange={(event) => setQuery(event.target.value)}
           className="h-12 w-full rounded-xl border border-[#E2D8C7] bg-[#FFFFFF] pl-12 pr-12 text-base text-[#4A2C1A] outline-none placeholder:text-[#8A796B] focus-visible:ring-2 focus-visible:ring-[#F4B942]" />
         {query && <button type="button" aria-label="ล้างคำค้นหา" onClick={() => setQuery("")}
-          className="absolute right-1 top-1/2 flex size-10 -translate-y-1/2 items-center justify-center rounded-lg text-[#817668] hover:bg-[#F1E7DC] focus-visible:outline-2 focus-visible:outline-[#F4B942]"><X aria-hidden="true" size={18} /></button>}
+          className="absolute right-1 top-1/2 flex size-10 -translate-y-1/2 items-center justify-center rounded-lg text-[#6B5E55] hover:bg-[#F1E7DC] focus-visible:outline-2 focus-visible:outline-[#F4B942]"><X aria-hidden="true" size={18} /></button>}
       </label>
       <button type="button" aria-pressed={manageSoldOut} onClick={() => setManageSoldOut((current) => !current)}
         className={`h-12 shrink-0 rounded-xl border px-4 text-base font-semibold ${manageSoldOut ? "border-[#4A2C1A] bg-[#4A2C1A] text-[#F7F1E7]" : "border-[#E2D8C7] bg-[#FFFFFF] text-[#4A2C1A]"}`}>
@@ -97,8 +97,8 @@ export function ProductGrid({ menu, categoryId, addedProductId, onChoose }: Prod
     </div>
     {manageSoldOut && <div role="status" className="mb-3 shrink-0 rounded-xl border border-dashed border-[#F4B942] bg-[#F7DCD0] px-4 py-2 text-sm font-semibold text-[#8E3415]">แตะเมนูเพื่อสลับ หมด/มีขาย</div>}
     {notice ? <div role="status" className="mb-3 shrink-0 rounded-xl bg-[#4A2C1A] px-5 py-3 text-base font-semibold text-white">{notice}</div> : null}
-    {searchTerm ? <p className="mb-3 text-sm text-[#817668]">กำลังค้นหาเมนูจากทุกหมวดหมู่</p> : null}
-    {products.length === 0 ? <div className="flex flex-1 items-center justify-center text-lg text-[#817668]">{searchTerm ? "ไม่พบเมนูที่ค้นหา" : "ยังไม่มีเมนูในหมวดหมู่นี้"}</div> :
+    {searchTerm ? <p className="mb-3 text-sm text-[#6B5E55]">กำลังค้นหาเมนูจากทุกหมวดหมู่</p> : null}
+    {products.length === 0 ? <div className="flex flex-1 items-center justify-center text-lg text-[#6B5E55]">{searchTerm ? "ไม่พบเมนูที่ค้นหา" : "ยังไม่มีเมนูในหมวดหมู่นี้"}</div> :
       <div ref={gridRef} className="grid grid-cols-[repeat(auto-fill,minmax(160px,1fr))] content-start gap-3">
         {products.map((product) => {
           const soldOut = soldOutOverrides[product.id] ?? product.soldOut;

diff --git a/frontend/src/app/pos/_components/pos-app.tsx b/frontend/src/app/pos/_components/pos-app.tsx
@@ -312,7 +312,7 @@ export function PosApp({ shop, staff, menu, orderNo: initialOrderNo, logoUrl, ac
       {cartNotice ? <p role="alert">{cartNotice}</p> : null}
       <ul className="divide-y divide-[#E2D8C7]">{cart.map((line, index) => (
         // biome-ignore lint/suspicious/noArrayIndexKey: Accepted draft lines are immutable and never reordered.
-        <li key={`${selfOrderId}:${index}`} className="flex justify-between gap-4 py-4"><div><p className="text-lg font-semibold">{line.qty} × {pricing.lines[index]?.name ?? menu.products.find((product) => product.id === line.productId)?.name ?? "เมนูไม่พร้อมขาย"}</p><p className="text-sm text-[#817668]">{pricing.lines[index]?.modifiers.map((modifier) => modifier.name).join(" · ")}</p>{line.note ? <p className="mt-1 text-sm text-[#817668]">{line.note}</p> : null}</div><span className="shrink-0 font-bold tabular-nums">{pricing.lines[index] ? formatBaht(pricing.lines[index].lineTotalSatang) : "ตรวจสอบราคา"}</span></li>))}</ul>
+        <li key={`${selfOrderId}:${index}`} className="flex justify-between gap-4 py-4"><div><p className="text-lg font-semibold">{line.qty} × {pricing.lines[index]?.name ?? menu.products.find((product) => product.id === line.productId)?.name ?? "เมนูไม่พร้อมขาย"}</p><p className="text-sm text-[#6B5E55]">{pricing.lines[index]?.modifiers.map((modifier) => modifier.name).join(" · ")}</p>{line.note ? <p className="mt-1 text-sm text-[#6B5E55]">{line.note}</p> : null}</div><span className="shrink-0 font-bold tabular-nums">{pricing.lines[index] ? formatBaht(pricing.lines[index].lineTotalSatang) : "ตรวจสอบราคา"}</span></li>))}</ul>
       <div className="flex items-baseline justify-between border-t border-[#E2D8C7] pt-4 font-bold"><span>ยอดชำระ</span><span className="text-3xl tabular-nums">{pricing.lines.length === cart.length ? formatBaht(pricing.subtotalSatang) : "รอตรวจสอบราคา"}</span></div>
       <div className="flex flex-wrap gap-3">
       <button type="button" onClick={() => setShowPayment(true)} disabled={!online} className="min-h-14 rounded-xl bg-[#2F6B3F] px-6 text-lg font-bold text-white disabled:opacity-50">ตรวจสอบยอดและรับชำระเงิน</button>

diff --git a/frontend/src/app/pos/_components/done-screen.tsx b/frontend/src/app/pos/_components/done-screen.tsx
@@ -103,11 +103,11 @@ export function DoneScreen({ result, method, onNewOrder }: DoneScreenProps) {
             <path ref={checkRef} d="m5 12 5 5L20 7" stroke="currentColor" strokeWidth="2.6" strokeLinecap="round" strokeLinejoin="round" />
           </svg>
         </span>
-        <div className="text-xl text-[#817668]">ชำระเงินเรียบร้อย · ออเดอร์</div>
+        <div className="text-xl text-[#6B5E55]">ชำระเงินเรียบร้อย · ออเดอร์</div>
         <span ref={orderRef} className="text-[72px] font-bold leading-none tabular-nums">{orderLabel}</span>
 
         {method === "cash" && <div ref={changeRef} className="rounded-[18px] border border-[#E2D8C7] bg-[#FFFFFF] px-8 py-2.5 shadow-[0_4px_14px_rgba(59,42,32,0.05)]">
-          <span className="text-lg text-[#817668]">เงินทอน </span><span className="text-[40px] font-bold tabular-nums">{formatBaht(result.changeSatang)}</span>
+          <span className="text-lg text-[#6B5E55]">เงินทอน </span><span className="text-[40px] font-bold tabular-nums">{formatBaht(result.changeSatang)}</span>
         </div>}
 
         {member && <div className="flex items-center gap-3 rounded-[18px] border border-[#E2D8C7] bg-[#FFFFFF] px-5 py-3 text-left shadow-[0_4px_14px_rgba(74,44,26,0.04)]">
@@ -155,7 +155,7 @@ export function DoneScreen({ result, method, onNewOrder }: DoneScreenProps) {
             <MessageCircle aria-hidden="true" className="size-[22px]" />{sending ? "กำลังส่ง…" : "ส่งใบเสร็จทาง LINE"}
           </button>}
         </div>
-        {lineMessage && <p role="status" className="text-sm text-[#817668]">{lineMessage}</p>}
+        {lineMessage && <p role="status" className="text-sm text-[#6B5E55]">{lineMessage}</p>}
         <button ref={newOrderRef} type="button" onClick={onNewOrder}
           className="h-[76px] w-full rounded-[18px] bg-[#4A2C1A] text-[22px] font-bold text-[#F7F1E7] shadow-[0_8px_20px_rgba(59,42,32,0.16)] focus-visible:outline-2 focus-visible:outline-offset-2 focus-visible:outline-[#F4B942]">เริ่มออเดอร์ใหม่</button>
       </div>

diff --git a/frontend/src/app/pos/_components/category-rail.tsx b/frontend/src/app/pos/_components/category-rail.tsx
@@ -31,7 +31,7 @@ export function CategoryRail({ menu, selectedId, onSelect }: CategoryRailProps) 
   }, { scope: railRef, dependencies: [selectedId] });
 
   return (
-    <nav ref={railRef} aria-label="หมวดหมู่" className="relative flex w-full shrink-0 flex-row gap-2 overflow-x-auto md:w-[116px] md:flex-col md:overflow-y-auto border-r border-[#E0CFBD] bg-[#EFE3D5] px-2.5 py-4">
+    <nav ref={railRef} aria-label="หมวดหมู่" className="relative flex w-full shrink-0 flex-row gap-2 overflow-x-auto md:w-[116px] md:flex-col md:overflow-x-hidden md:overflow-y-auto border-r border-[#E0CFBD] bg-[#EFE3D5] px-2.5 py-4">
       <span ref={indicatorRef} aria-hidden="true" className="pointer-events-none hidden md:block absolute left-2.5 right-2.5 top-4 h-[84px] rounded-[14px] bg-[#4A2C1A] shadow-[0_5px_14px_rgba(59,42,32,0.14)]" />
       {categories.map((category) => {
         const count = menu.products.filter((product) => category.id === null || product.categoryId === category.id).length;
@@ -39,7 +39,7 @@ export function CategoryRail({ menu, selectedId, onSelect }: CategoryRailProps) 
         return <button key={category.id ?? "all"} type="button" aria-pressed={selected} onClick={() => onSelect(category.id)}
           className={`relative z-10 flex min-h-14 min-w-24 shrink-0 md:min-h-[84px] flex-col items-center justify-center gap-0.5 rounded-[14px] text-[17px] font-semibold transition-colors duration-150 motion-reduce:transition-none ${selected ? "bg-[#4A2C1A] md:bg-transparent text-[#F7F1E7]" : "text-[#4A2C1A]"}`}>
           {selected && <svg aria-hidden="true" className="absolute right-1 top-1/2 h-8 w-1 -translate-y-1/2" viewBox="0 0 4 32" fill="none">
-            <path data-active-line d="M2 1V31" stroke="#D9653B" strokeWidth="3" strokeLinecap="round" />
+            <path data-active-line d="M2 1V31" stroke="#F4B942" strokeWidth="3" strokeLinecap="round" />
           </svg>}
           {category.name}<span className="text-[13px] font-medium opacity-80">{count} รายการ</span>
         </button>;

diff --git a/frontend/src/app/pos/_components/member-panel.tsx b/frontend/src/app/pos/_components/member-panel.tsx
@@ -42,8 +42,8 @@ export function MemberPanel({ member, loading = false, lookupError, redeemReward
   return <section ref={panelRef} className="flex flex-col gap-2.5 border-b border-[#E2D8C7] p-[14px_16px]">
     <div className="flex items-center gap-3">
       <span className="flex size-11 items-center justify-center rounded-full bg-[#06C755] text-lg font-bold text-white">{thaiInitial(member.displayName)}</span>
-      <div className="min-w-0 flex-1 leading-tight"><div className="truncate text-[17px] font-bold">{member.displayName}</div><div className="text-sm text-[#817668]">{maskPhone(member.phone) || "ไม่ระบุเบอร์"} · สะสม {member.stampBalance}/{member.stampGoal}</div></div>
-      <button type="button" aria-label="นำสมาชิกออก" onClick={onRemove} className="flex size-11 items-center justify-center rounded-xl border border-[#E2D8C7] bg-[#FFFFFF] text-[#817668]"><X aria-hidden="true" size={18} /></button>
+      <div className="min-w-0 flex-1 leading-tight"><div className="truncate text-[17px] font-bold">{member.displayName}</div><div className="text-sm text-[#6B5E55]">{maskPhone(member.phone) || "ไม่ระบุเบอร์"} · สะสม {member.stampBalance}/{member.stampGoal}</div></div>
+      <button type="button" aria-label="นำสมาชิกออก" onClick={onRemove} className="flex size-11 items-center justify-center rounded-xl border border-[#E2D8C7] bg-[#FFFFFF] text-[#6B5E55]"><X aria-hidden="true" size={18} /></button>
     </div>
     <div role="img" aria-label={`แสตมป์ ${member.stampBalance} จาก ${member.stampGoal}`} className="flex flex-col gap-1.5">
       <div className="flex flex-wrap gap-1.5">
